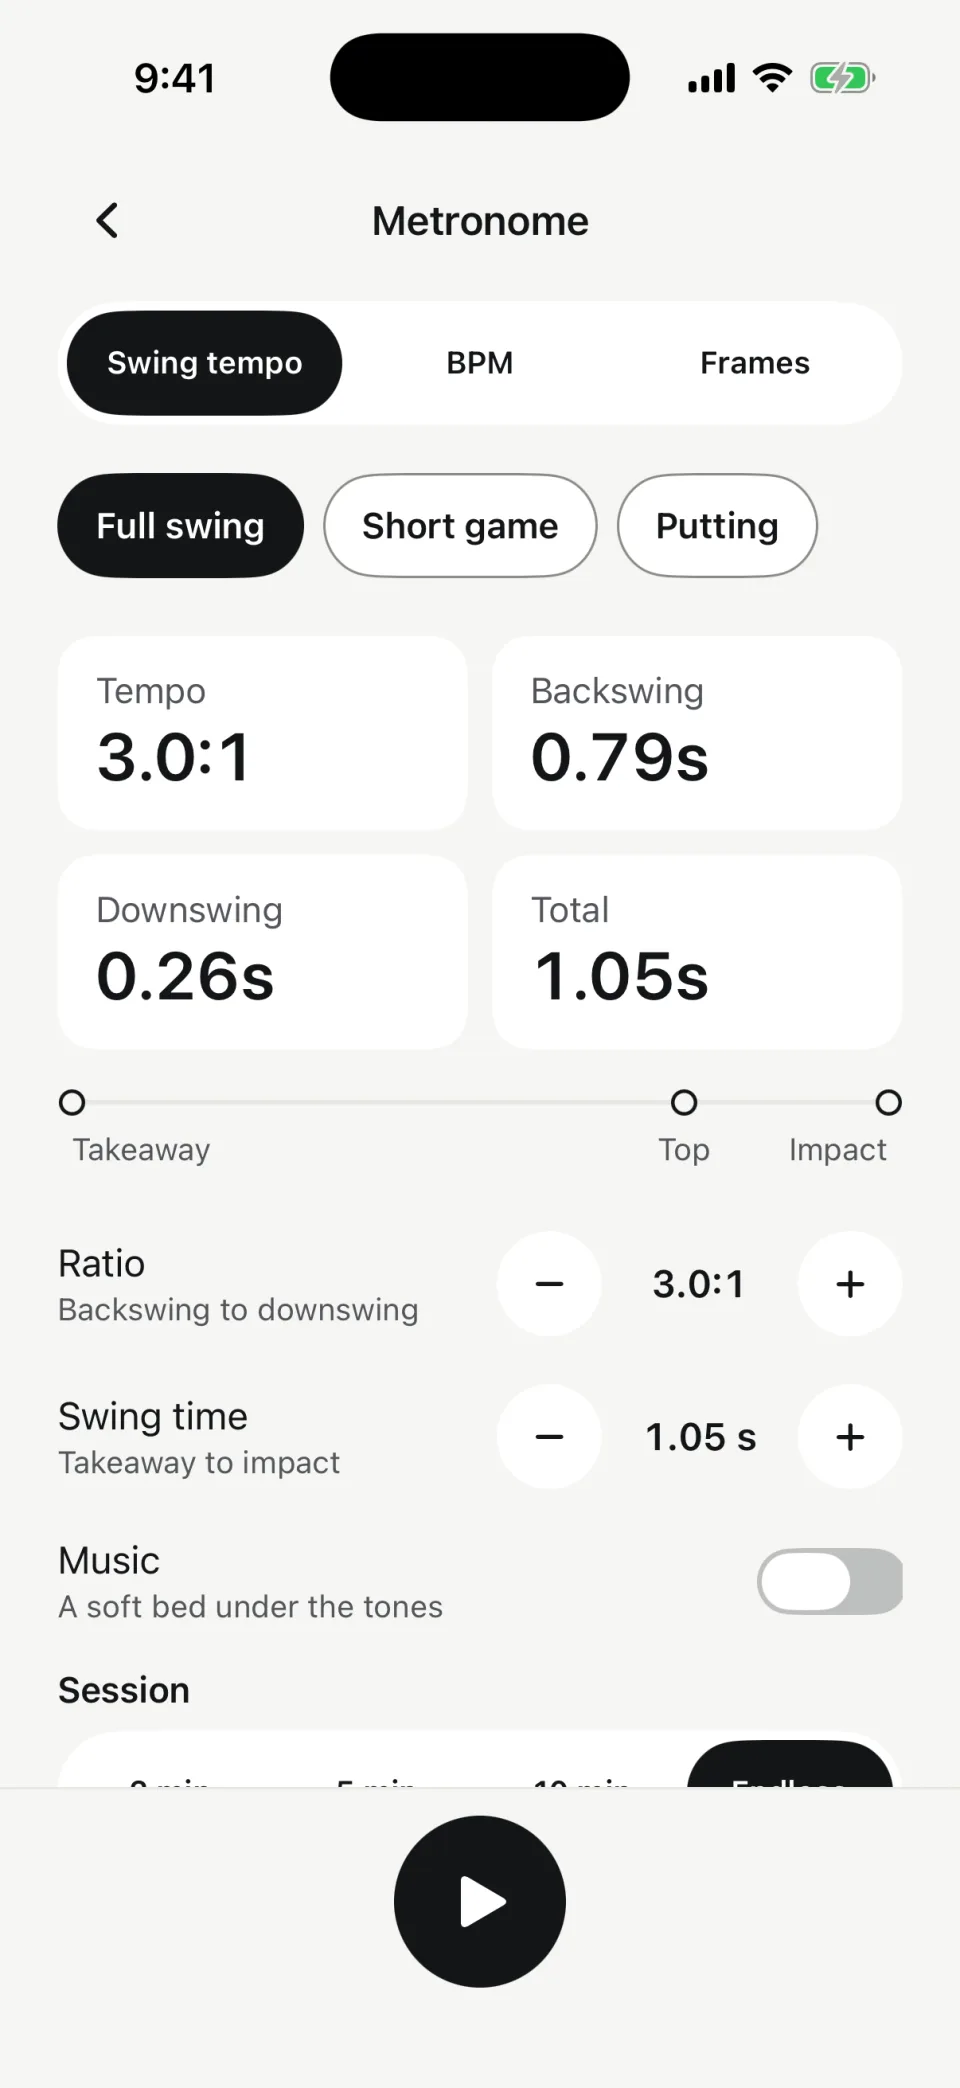
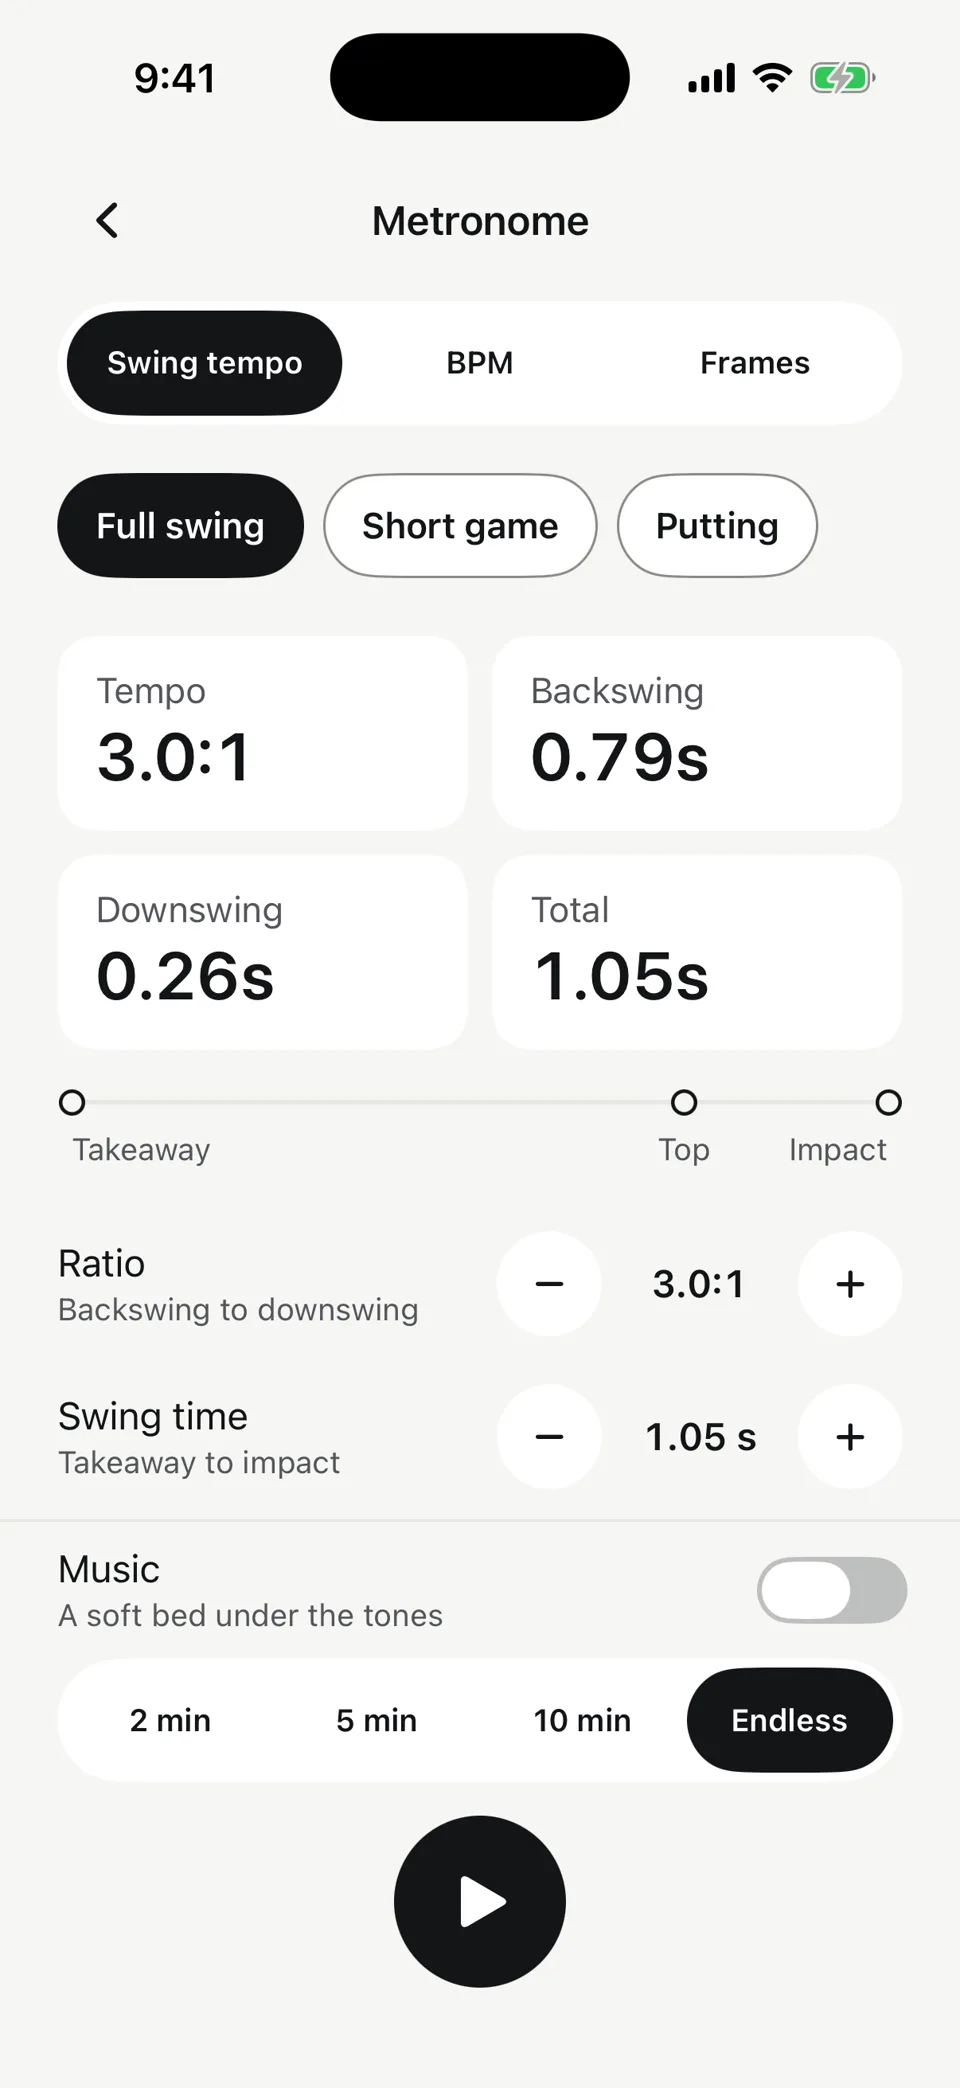
Metronome back as the fourth card, cropped to its four numbers; screen re-shot from the latest build

diff --git a/app/elite-tempo/page.tsx b/app/elite-tempo/page.tsx
@@ -286,8 +286,14 @@ export default function EliteTempoLanding() {
         </div>
       </FeatureSection>
 
-      {/* Metronome section out on this preview (Pinterest shows three features; the
-          metronome is a settings screen and the weakest picture). */}
+      {/* The metronome back as the fourth card (Eric, 11-15; Pinterest shows four).
+          Real screen from the latest build, cropped under the takeaway, top and
+          impact line so the picture is the four numbers, not the settings rows. */}
+      <FeatureSection title="Practice with the metronome." body="Set your tempo and swing time, then swing to the tones.">
+        <div className="mx-auto h-[min(94vw,380px)] w-[min(68%,280px)] pt-8 md:h-[420px] md:w-[300px]">
+          <Phone src="metronome" alt="The Elite Tempo metronome: tempo 3.0 to 1, backswing 0.79 seconds, downswing 0.26 seconds, total 1.05 seconds, with the takeaway, top and impact line." />
+        </div>
+      </FeatureSection>
 
       {/* The close (Eric, 11-04, from his Figma note "full bleed image behind CTA"):
           his tee shot in front of a gallery, edge to edge, with one line, one "Try for
